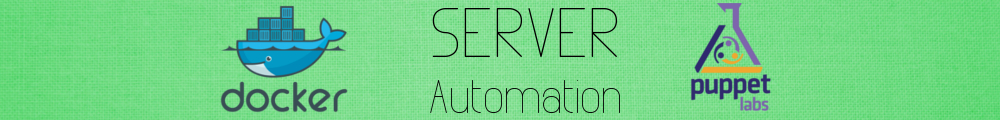
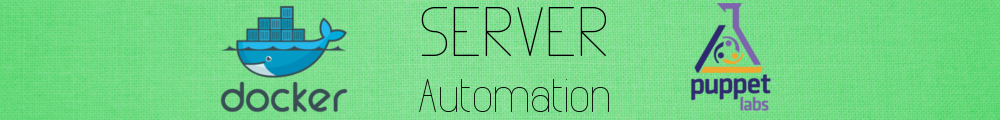
Ajustado imagens de automation e rails.

Changed region(s): [[0.403, 0.05, 0.62, 0.475], [0.403, 0.675, 0.62, 0.95]]

diff --git a/index.html b/index.html
@@ -6,13 +6,11 @@
       <meta content="width=device-width, initial-scale=1.0" name="viewport">
         <title>CodeWeek @ UMinho</title>
         <meta content="timeline, vertical, layout, style, component, web development, template, responsive" name="keywords">
-        <link href="../favicon.ico" rel="shortcut icon">
         <link href="css/normalize.css" rel="stylesheet" type="text/css">
         <link href="css/default.css" rel="stylesheet" type="text/css">
         <link href="css/component.css" rel="stylesheet" type="text/css">
         <link href="css/custom.css" rel="stylesheet" type="text/css">
         <link href="css/fontello.css" rel="stylesheet" type="text/css">
-        <link href="css/animation.css" rel="stylesheet" type="text/css">
         <link href="css/foundation.css" rel="stylesheet" type="text/css">
         <script src="https://ajax.googleapis.com/ajax/libs/jquery/2.1.1/jquery.min.js"></script>
         <script src="js/modernizr.custom.js"></script>
@@ -174,6 +172,7 @@
                 Server Automation
               </h2>
               <span class="date-more">18h @ DI A2</span>
+              <div class="starred" style="background-image: url(&#39;img/starred/automation.jpg&#39;)"></div>
               <p class="content">
                 Lorem ipsum dolor sit amet, consectetur adipisicing elit, sed do eiusmod tempor incididunt ut labore et dolore magna aliqua. Ut enim ad minim veniam, quis nostrud exercitation ullamco laboris nisi ut aliquip ex ea commodo consequat. Duis aute irure dolor in reprehenderit in voluptate velit esse cillum dolore eu fugiat nulla pariatur. Excepteur sint occaecat cupidatat non proident, sunt in culpa qui officia deserunt mollit anim id est laborum.
                 
